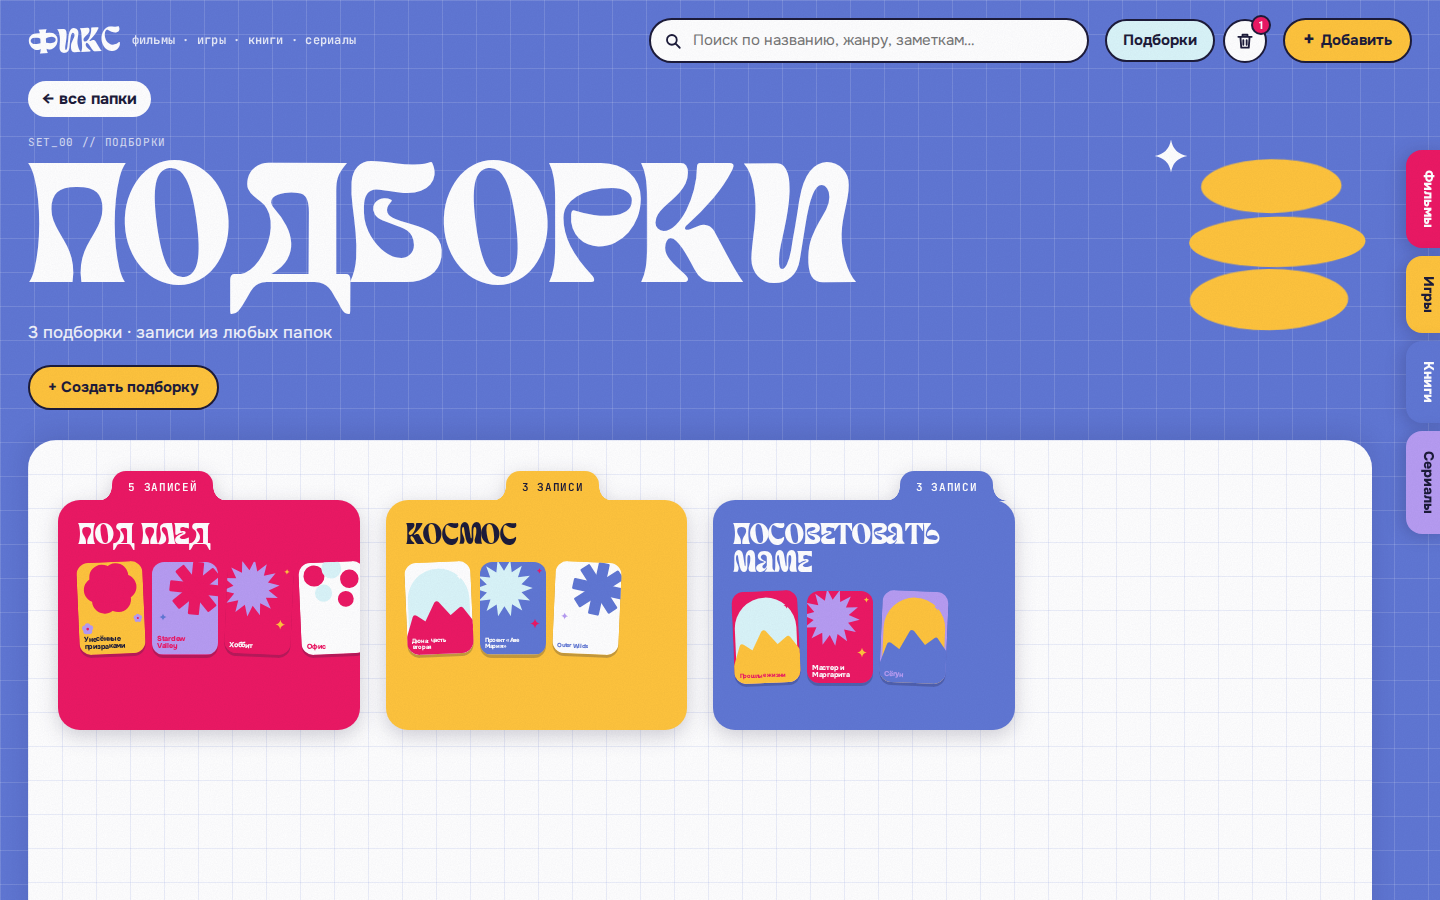
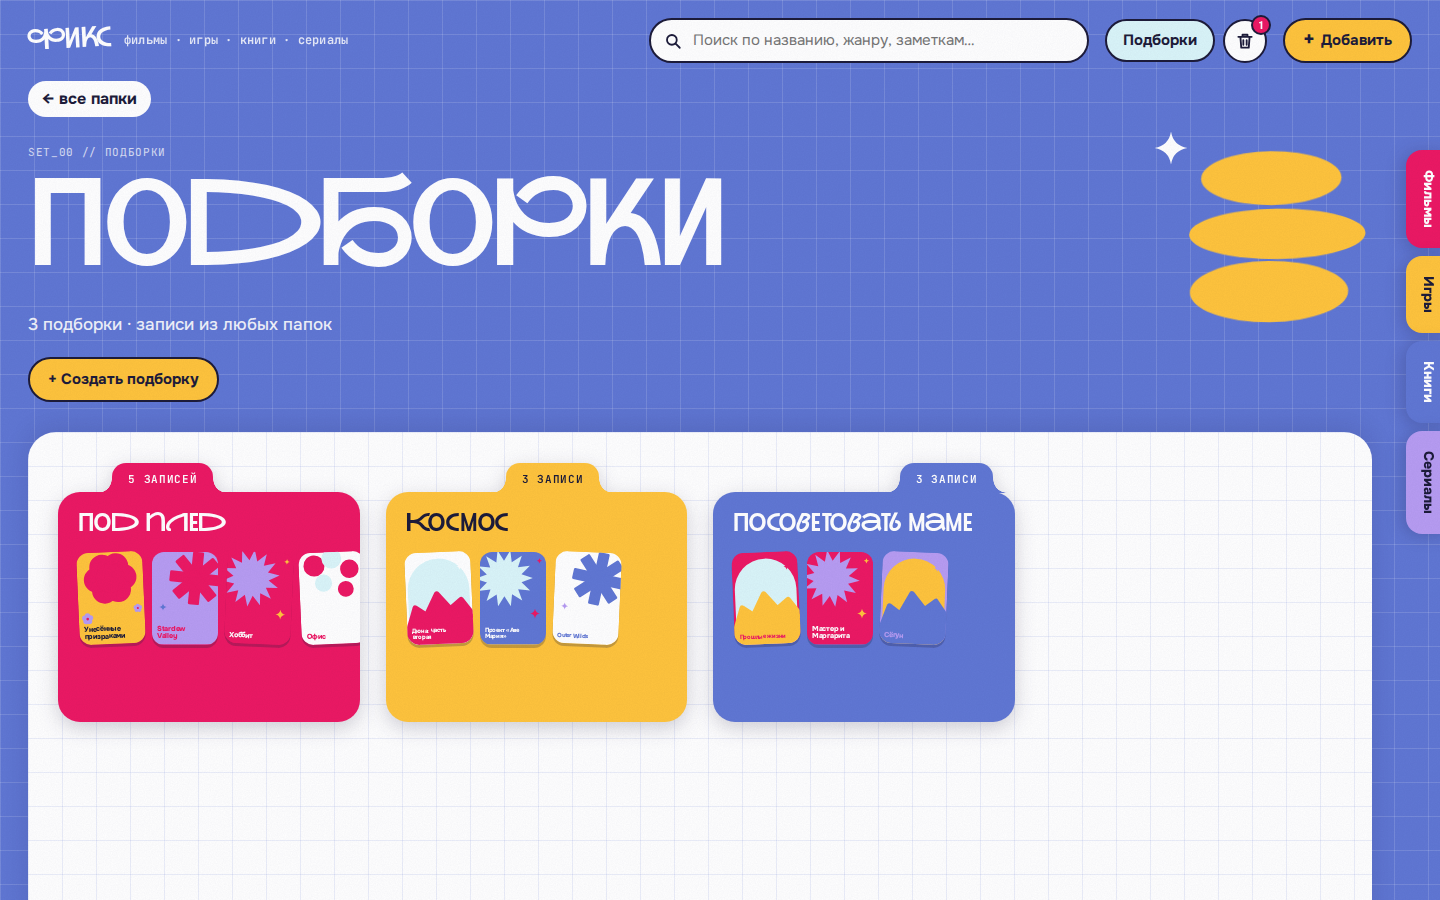
Заголовки на Nauryz Red Keds, Soledago убран
С Soledago заголовки читались тяжело. Nauryz теперь шрифт по умолчанию,
размеры заголовков подогнаны под его ширину, переключатель ?font убран.

Claude-Session: https://claude.ai/code/session_01PDBpM1BjsubR5k6YmRK1Ea

diff --git a/css/styles.css b/css/styles.css
@@ -1,31 +1,11 @@
 /* ============ Шрифт заголовков ============ */
-@font-face {
-  font-family: 'Soledago';
-  src: url('../fonts/Soledago.woff2') format('woff2'),
-       url('../fonts/Soledago.woff') format('woff'),
-       url('../fonts/Soledago.otf') format('opentype'),
-       url('../fonts/Soledago.ttf') format('truetype');
-  font-weight: 100 900; /* одно начертание на все веса — без искусственного жирного */
-  font-display: swap;
-}
-
-/* Второй вариант для заголовков — Nauryz Red Keds (© 2024 Red Keds, бесплатный).
-   Включается адресом ?font=nauryz. */
+/* Nauryz Red Keds (© 2024 Red Keds, бесплатный), в файле только кириллица, латиница и знаки. */
 @font-face {
   font-family: 'NauryzRedKeds';
   src: url('../fonts/NauryzRedKeds.woff2') format('woff2');
-  font-weight: 100 900;
+  font-weight: 100 900; /* одно начертание на все веса — без искусственного жирного */
   font-display: swap;
 }
-html[data-display="nauryz"] { --display: 'NauryzRedKeds', 'Onest', system-ui, sans-serif; }
-/* Nauryz заметно шире Soledago — заголовки мельче и с запасом по высоте. */
-html[data-display="nauryz"] .title-sheet h1 { font-size: clamp(60px, 6.6vw, 104px); line-height: 1; margin-top: 10px; }
-html[data-display="nauryz"] .coll-hero h1 { font-size: clamp(54px, 8.4vw, 128px); line-height: 1; margin-top: 14px; }
-html[data-display="nauryz"] .folder-vtitle { font-size: clamp(44px, 7vh, 84px); }
-html[data-display="nauryz"] .detail-info h2 { font-size: clamp(28px, 3.4vw, 44px); line-height: 1.05; }
-html[data-display="nauryz"] .add-head h2 { font-size: clamp(28px, 3.2vw, 40px); }
-html[data-display="nauryz"] .pack-name { font-size: 25px; line-height: 1.05; }
-html[data-display="nauryz"] .logo-word { font-size: 28px; }
 
 /* ============ Токены ============ */
 :root {
@@ -48,8 +28,8 @@ html[data-display="nauryz"] .logo-word { font-size: 28px; }
   --tab-w: 50px;      /* ширина боковых язычков папок */
   --gutter: 28px;
 
-  /* Заголовки — Soledago (файл в fonts/). Пока файла нет, браузер берёт Onest. */
-  --display: 'Soledago', 'Onest', system-ui, sans-serif;
+  /* Заголовки — Nauryz Red Keds (файл в fonts/). Пока он не загрузился, браузер берёт Onest. */
+  --display: 'NauryzRedKeds', 'Onest', system-ui, sans-serif;
   --font: 'Onest', system-ui, -apple-system, 'Segoe UI', sans-serif;
   --hand: 'Caveat', 'Comic Sans MS', cursive;
   --mono: 'JetBrains Mono', ui-monospace, 'SFMono-Regular', monospace;
@@ -99,7 +79,7 @@ button, input, select, textarea { font: inherit; color: inherit; }
 [hidden] { display: none !important; }
 .sr { position: absolute; width: 1px; height: 1px; overflow: hidden; clip: rect(0 0 0 0); }
 
-/* Заголовки набраны Soledago. Трекинг подогнан под Onest; когда Soledago
+/* Заголовки набраны Nauryz. Трекинг подогнан под запасной Onest; когда Nauryz
    загрузился, app.js ставит .has-display-font и трекинг ослабляется. */
 .logo-word, .folder-vtitle, .title-sheet h1, .coll-hero h1, .pack-name, .detail-info h2, .add-head h2 {
   font-family: var(--display);
@@ -154,7 +134,7 @@ button, input, select, textarea { font: inherit; color: inherit; }
 /* логотип: слово «фикс» и расшифровка */
 .logo { display: flex; align-items: center; gap: 12px; text-decoration: none; color: var(--ink); }
 .logo-word {
-  font-weight: 900; font-size: 34px; line-height: 1; letter-spacing: -.07em;
+  font-weight: 900; font-size: 28px; line-height: 1; letter-spacing: -.07em;
   color: var(--tomato);
   transform: rotate(-3deg);
   transition: transform .25s cubic-bezier(.3, 1.6, .5, 1);
@@ -257,7 +237,7 @@ body[data-view="collection"] .logo-word { color: var(--page-fi, var(--ink)); }
   margin: 0;
   writing-mode: vertical-rl;
   transform: rotate(180deg);
-  font-size: clamp(54px, 8.2vh, 100px);
+  font-size: clamp(44px, 7vh, 84px);
   font-weight: 800;
   letter-spacing: -.055em;
   line-height: .82;
@@ -307,10 +287,10 @@ body[data-view="collection"] .logo-word { color: var(--page-fi, var(--ink)); }
 .title-sheet h1 {
   margin: 2px 0 0;
   color: var(--tomato);
-  font-size: clamp(90px, 10vw, 150px);
+  font-size: clamp(60px, 6.6vw, 104px);
   font-weight: 900;
   letter-spacing: -.07em;
-  line-height: .8;
+  line-height: 1;
 }
 .decode { margin: -2px 0 0; display: flex; flex-wrap: wrap; gap: 6px; }
 .decode span { background: var(--c); color: var(--fi); border-radius: 999px; padding: 5px 12px 6px; font-size: 15px; font-weight: 600; }
@@ -368,11 +348,11 @@ body[data-view="collection"] .logo-word { color: var(--page-fi, var(--ink)); }
 .back:hover { transform: translateX(-4px) rotate(-2deg); }
 .coll-hero { display: flex; align-items: flex-end; justify-content: space-between; gap: 20px; margin-top: 18px; }
 .coll-hero h1 {
-  margin: 6px 0 .16em;
-  font-size: clamp(72px, 12vw, 170px);
+  margin: 14px 0 .16em;
+  font-size: clamp(54px, 8.4vw, 128px);
   font-weight: 800;
   letter-spacing: -.065em;
-  line-height: .82;
+  line-height: 1;
 }
 .coll-sub { margin: 0; font-size: 17px; font-weight: 500; opacity: .9; }
 .coll-figure { position: relative; width: clamp(120px, 15vw, 200px); flex: none; }
@@ -543,7 +523,7 @@ body[data-view="collection"] .logo-word { color: var(--page-fi, var(--ink)); }
 .detail-cover { border: 2px solid var(--ink); border-radius: 22px; overflow: hidden; transform: rotate(-2deg); position: sticky; top: 0; }
 .detail-cover svg { display: block; width: 100%; }
 .detail-info { display: grid; gap: 20px; min-width: 0; }
-.detail-info h2 { margin: 0; font-size: clamp(34px, 4.4vw, 56px); font-weight: 800; letter-spacing: -.05em; line-height: .92; }
+.detail-info h2 { margin: 0; font-size: clamp(28px, 3.4vw, 44px); font-weight: 800; letter-spacing: -.05em; line-height: 1.05; }
 .detail-sub { margin: -10px 0 0; font-size: 16px; color: var(--ink-2); }
 .detail-grid { display: grid; grid-template-columns: 1fr 1fr; gap: 18px 24px; }
 
@@ -612,7 +592,7 @@ body[data-view="collection"] .logo-word { color: var(--page-fi, var(--ink)); }
 .add-form { display: grid; grid-template-columns: 1fr 1fr; gap: 18px 22px; }
 .field--wide { grid-column: 1 / -1; }
 .add-head { grid-column: 1 / -1; display: flex; align-items: baseline; gap: 16px; flex-wrap: wrap; }
-.add-head h2 { margin: 0; font-size: clamp(34px, 4vw, 50px); font-weight: 800; letter-spacing: -.05em; line-height: .95; }
+.add-head h2 { margin: 0; font-size: clamp(28px, 3.2vw, 40px); font-weight: 800; letter-spacing: -.05em; line-height: .95; }
 .add-head .hand-note { transform: rotate(-4deg); }
 .type-chips { grid-column: 1 / -1; }
 .type-chips .chip { font-size: 16px; padding: 9px 18px 10px; }
@@ -735,7 +715,7 @@ body[data-view="collection"] .logo-word { color: var(--page-fi, var(--ink)); }
 .pack-tab::before { right: 100%; background: radial-gradient(circle at 0 0, transparent calc(var(--r) - .5px), var(--tc) var(--r)); }
 .pack-tab::after  { left: 100%;  background: radial-gradient(circle at 100% 0, transparent calc(var(--r) - .5px), var(--tc) var(--r)); }
 .pack-body { display: flex; flex-direction: column; gap: 14px; background: var(--c); border-radius: 22px; padding: 20px 20px 18px; min-height: 230px; overflow: hidden; }
-.pack-name { font-size: 30px; font-weight: 800; letter-spacing: -.045em; line-height: .95; }
+.pack-name { font-size: 25px; font-weight: 800; letter-spacing: -.045em; line-height: 1.05; }
 .pack-peek { display: flex; gap: 8px; }
 .pack-peek .mini-cover { flex: none; width: 66px; }
 
@@ -837,7 +817,7 @@ body[data-view="collection"] .logo-word { color: var(--page-fi, var(--ink)); }
 /* ============ Адаптив ============ */
 @media (max-width: 1180px) {
   .folder--title { flex-basis: 30%; }
-  .folder-vtitle { font-size: clamp(46px, 7vh, 80px); }
+  .folder-vtitle { font-size: clamp(40px, 6.4vh, 72px); }
 }
 
 /* планшет и телефон: папки стопкой сверху вниз, язычки сверху */
@@ -874,8 +854,7 @@ body[data-view="collection"] .logo-word { color: var(--page-fi, var(--ink)); }
   .folder-tab::after { top: auto; bottom: 0; left: 100%;
     background: radial-gradient(circle at 100% 0, transparent calc(var(--r) - .5px), var(--tc) var(--r)); }
 
-  .folder-vtitle { writing-mode: horizontal-tb; transform: none; align-self: auto; font-size: 46px; line-height: .9; }
-  html[data-display="nauryz"] .folder-vtitle { font-size: 34px; line-height: 1; padding-right: 70px; }
+  .folder-vtitle { writing-mode: horizontal-tb; transform: none; align-self: auto; font-size: 34px; line-height: 1; padding-right: 70px; }
   .folder-main { gap: 12px; }
   .folder-peek { display: flex; gap: 10px; overflow: hidden; -webkit-mask-image: linear-gradient(90deg, #000 70%, transparent); mask-image: linear-gradient(90deg, #000 70%, transparent); }
   .mini-cover { flex: none; width: 78px; }

diff --git a/js/app.js b/js/app.js
@@ -122,12 +122,9 @@ window.Diary = window.Diary || {};
   function init() {
     app = document.getElementById('app');
 
-    // Шрифт заголовков лежит в fonts/: по умолчанию Soledago, ?font=nauryz — Nauryz Red Keds.
-    // Если шрифт нашёлся — ослабляем трекинг под него.
-    var displayFont = /[?&]font=nauryz\b/.test(window.location.search) || window.DIARY_FONT === 'nauryz' ? 'nauryz' : 'soledago';
-    document.documentElement.setAttribute('data-display', displayFont);
+    // Шрифт заголовков лежит в fonts/. Если он нашёлся — ослабляем трекинг под него.
     if (document.fonts && document.fonts.load) {
-      document.fonts.load(displayFont === 'nauryz' ? '1em NauryzRedKeds' : '1em Soledago').then(function (faces) {
+      document.fonts.load('1em NauryzRedKeds').then(function (faces) {
         if (faces.length) document.documentElement.classList.add('has-display-font');
       }).catch(function () {});
     }

diff --git a/js/stars.js b/js/stars.js
@@ -1,7 +1,7 @@
 // Half-star rating: 5 slots, each a base outline star with a width-clipped
 // filled star on top (0%, 50% or 100% depending on the value). Used both for
 // static display in cards and as an interactive picker in the entry modal.
-// Звёзды нарисованы в стиле «Фикса»: лаймовая заливка и тёмный контур.
+// Звёзды нарисованы в стиле «Фикса»: жёлтая заливка и тёмный контур.
 window.Diary = window.Diary || {};
 
 (function (Diary) {

diff --git a/fonts/README.md b/fonts/README.md
@@ -1,6 +1,5 @@
-# Шрифты заголовков
+# Шрифт заголовков
 
-- `Soledago.woff2` — Soledago, автор Александра Гофман, бесплатный, с кириллицей. Используется по умолчанию.
-- `NauryzRedKeds.woff2` — Nauryz Red Keds, © 2024 Red Keds, бесплатный. Оставлены только кириллица, латиница и знаки препинания. Включается адресом `index.html?font=nauryz`.
+`NauryzRedKeds.woff2` — Nauryz Red Keds, © 2024 Red Keds, бесплатный. В файле оставлены только кириллица, латиница и знаки препинания.
 
 Если файл убрать, заголовки наберутся запасным Onest.

diff --git a/README.md b/README.md
@@ -9,7 +9,7 @@
 - **Обычный режим** — ваши записи из `localStorage` (ключи `mediaDiary.entries.v1` и `mediaDiary.collections.v1`).
 - **Демо** — `index.html?demo`: отдельное хранилище с примерами, настоящие записи не трогаются.
 
-Шрифт заголовков — Soledago, файл в `fonts/`.
+Шрифт заголовков — Nauryz Red Keds, файл в `fonts/`.
 
 Поиск по каталогам: скопируйте `js/secrets.example.js` в `js/secrets.js` и впишите ключи. Файл в `.gitignore`. Без него приложение работает, Google Books ищет и без ключа.
 
